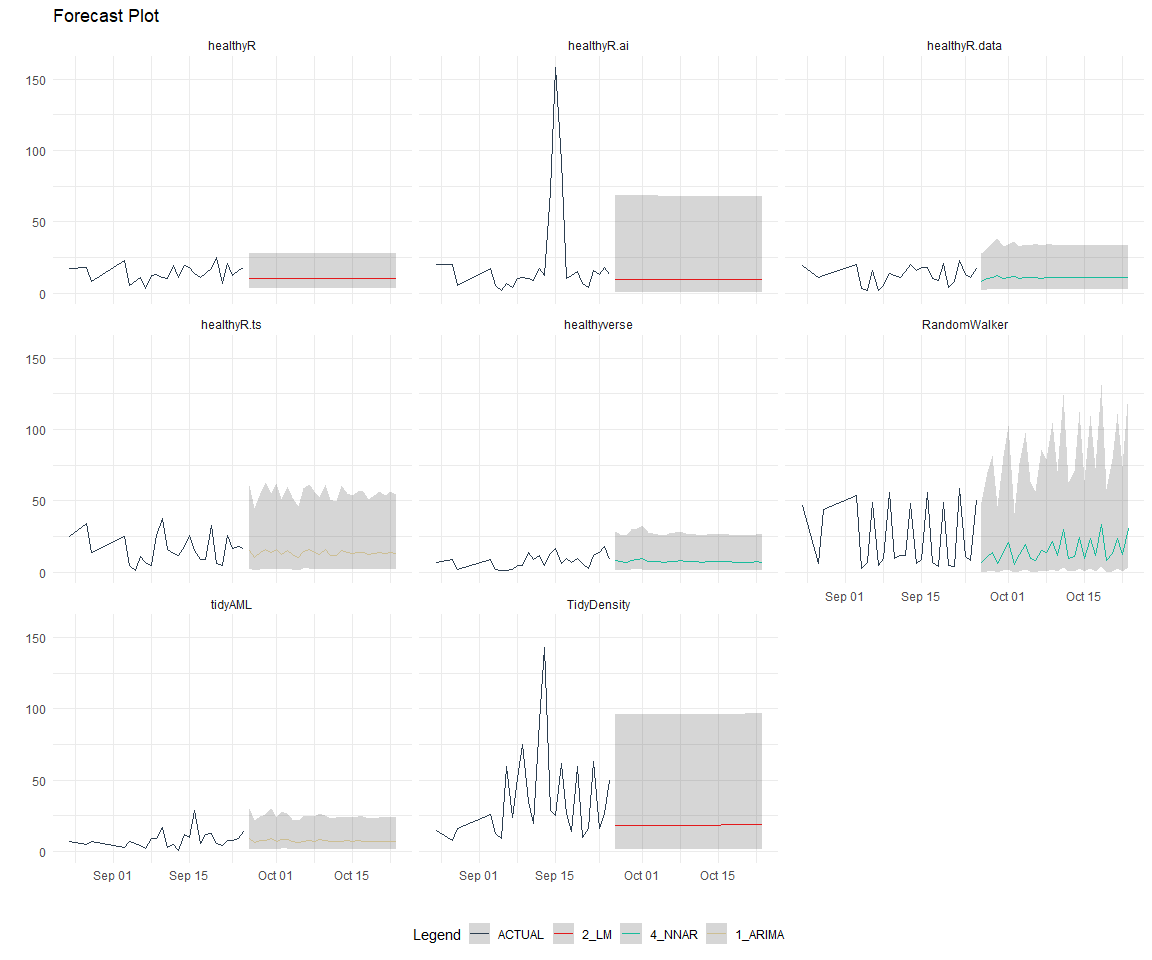
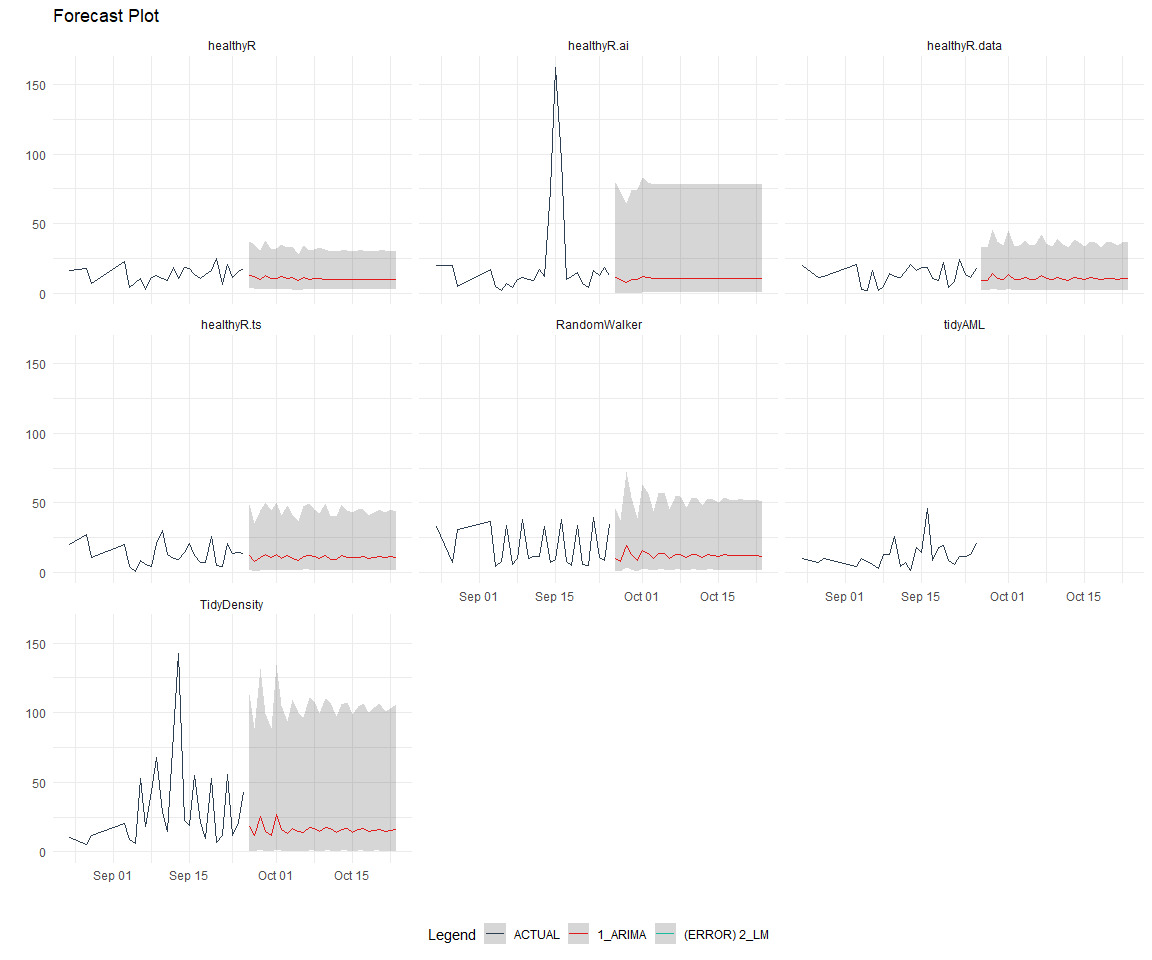
updates

diff --git a/README.md b/README.md
@@ -639,9 +639,19 @@ std_mean   <- std_params$mean
 std_sd     <- std_params$sd
 
 data_transformed_tbl <- data_liv_tbl %>%
+  group_by(package) %>%
   # get standardization
   mutate(value_trans = standard_vec(value_trans, silent = TRUE)$standard_scaled) %>%
-  select(-value)
+  tk_augment_fourier(
+    .date_var = date,
+    .periods  = c(7, 14, 30, 90, 180),
+    .K        = 2
+  ) %>%
+  tk_augment_timeseries_signature(
+    .date_var = date
+  ) %>%
+  ungroup() %>%
+  select(-c(value, -year.iso))
 ```
 
 Since this is panel data we can follow one of two different modeling
@@ -687,16 +697,16 @@ nested_data_tbl
 ```
 
     # A tibble: 8 × 4
-      package       .actual_data         .future_data      .splits          
-      <fct>         <list>               <list>            <list>           
-    1 healthyR.data <tibble [1,753 × 2]> <tibble [28 × 2]> <split [1725|28]>
-    2 healthyR      <tibble [1,744 × 2]> <tibble [28 × 2]> <split [1716|28]>
-    3 healthyR.ts   <tibble [1,690 × 2]> <tibble [28 × 2]> <split [1662|28]>
-    4 healthyverse  <tibble [1,661 × 2]> <tibble [28 × 2]> <split [1633|28]>
-    5 healthyR.ai   <tibble [1,486 × 2]> <tibble [28 × 2]> <split [1458|28]>
-    6 TidyDensity   <tibble [1,337 × 2]> <tibble [28 × 2]> <split [1309|28]>
-    7 tidyAML       <tibble [944 × 2]>   <tibble [28 × 2]> <split [916|28]> 
-    8 RandomWalker  <tibble [367 × 2]>   <tibble [28 × 2]> <split [339|28]> 
+      package       .actual_data          .future_data       .splits          
+      <fct>         <list>                <list>             <list>           
+    1 healthyR.data <tibble [1,753 × 50]> <tibble [28 × 50]> <split [1725|28]>
+    2 healthyR      <tibble [1,744 × 50]> <tibble [28 × 50]> <split [1716|28]>
+    3 healthyR.ts   <tibble [1,690 × 50]> <tibble [28 × 50]> <split [1662|28]>
+    4 healthyverse  <tibble [1,661 × 50]> <tibble [28 × 50]> <split [1633|28]>
+    5 healthyR.ai   <tibble [1,486 × 50]> <tibble [28 × 50]> <split [1458|28]>
+    6 TidyDensity   <tibble [1,337 × 50]> <tibble [28 × 50]> <split [1309|28]>
+    7 tidyAML       <tibble [944 × 50]>   <tibble [28 × 50]> <split [916|28]> 
+    8 RandomWalker  <tibble [367 × 50]>   <tibble [28 × 50]> <split [339|28]> 
 
 Now it is time to make some recipes and models using the modeltime
 workflow.
@@ -707,14 +717,16 @@ workflow.
 
 ``` r
 recipe_base <- recipe(
-  value_trans ~ date
+  value_trans ~ .
   , data = extract_nested_test_split(nested_data_tbl)
   )
 
 recipe_base
 
-recipe_date <- recipe_base %>%
-    step_mutate(date = as.numeric(date))
+recipe_date <- recipe(
+  value_trans ~ date
+  , data = extract_nested_test_split(nested_data_tbl)
+  )
 ```
 
 ### Models
@@ -728,7 +740,7 @@ model_spec_arima_no_boost <- arima_reg() %>%
   set_engine(engine = "auto_arima")
 
 wflw_auto_arima <- workflow() %>%
-  add_recipe(recipe = recipe_base) %>%
+  add_recipe(recipe = recipe_date) %>%
   add_model(model_spec_arima_no_boost)
 
 # NNETAR ------------------------------------------------------------------
@@ -758,7 +770,7 @@ model_spec_mars <- mars(mode = "regression") %>%
   set_engine("earth")
 
 wflw_mars <- workflow() %>%
-  add_recipe(recipe = recipe_base) %>%
+  add_recipe(recipe = recipe_date) %>%
   add_model(model_spec_mars)
 ```
 
@@ -795,38 +807,38 @@ nested_modeltime_tbl %>%
 
 | package | .model_id | .model_desc | .type | mae | mape | mase | smape | rmse | rsq |
 |:---|---:|:---|:---|---:|---:|---:|---:|---:|---:|
-| healthyR.data | 1 | ARIMA | Test | 0.6755950 | 172.73991 | 0.8723654 | 156.42763 | 0.7999823 | 0.0220462 |
-| healthyR.data | 2 | LM | Test | 0.7571503 | 252.52539 | 0.9776741 | 158.04385 | 0.8600928 | 0.0346441 |
-| healthyR.data | 3 | EARTH | Test | 4.8041034 | 2506.59131 | 6.2033223 | 177.33667 | 5.1958427 | 0.0346441 |
-| healthyR.data | 4 | NNAR | Test | 0.5930744 | 102.77309 | 0.7658103 | 184.21522 | 0.7662652 | 0.0038476 |
-| healthyR | 1 | ARIMA | Test | 0.5945975 | 242.94406 | 0.7962216 | 170.44435 | 0.6825873 | 0.3674558 |
-| healthyR | 2 | LM | Test | 0.5630165 | 146.97805 | 0.7539316 | 182.35467 | 0.6782720 | 0.1498603 |
-| healthyR | 3 | EARTH | Test | 5.9598093 | 3759.17139 | 7.9807411 | 184.37374 | 6.4597238 | 0.1498603 |
-| healthyR | 4 | NNAR | Test | 0.5795087 | 176.38106 | 0.7760162 | 182.52098 | 0.6861962 | 0.0000001 |
-| healthyR.ts | 1 | ARIMA | Test | 0.7796413 | 89.63044 | 0.7730430 | 133.03322 | 1.0054434 | 0.0388246 |
-| healthyR.ts | 2 | LM | Test | 0.7911201 | 120.07873 | 0.7844247 | 123.88697 | 1.0078446 | 0.0131688 |
-| healthyR.ts | 3 | EARTH | Test | 4.3327567 | 1091.42616 | 4.2960875 | 175.83862 | 4.6955181 | 0.0131688 |
-| healthyR.ts | 4 | NNAR | Test | 0.8620979 | 96.80601 | 0.8548018 | 180.21520 | 1.0624775 | 0.0034682 |
-| healthyverse | 1 | ARIMA | Test | 0.6885984 | 195.00243 | 0.9269246 | 105.88254 | 0.8269310 | 0.0026851 |
-| healthyverse | 2 | LM | Test | 0.7005244 | 213.44247 | 0.9429781 | 104.05122 | 0.8363359 | 0.1999877 |
-| healthyverse | 3 | EARTH | Test | 3.7570037 | 1476.43607 | 5.0573148 | 142.35547 | 4.2193011 | 0.1999877 |
-| healthyverse | 4 | NNAR | Test | 0.6633069 | 145.89305 | 0.8928796 | 111.64424 | 0.8219424 | 0.1373500 |
-| healthyR.ai | 1 | ARIMA | Test | 0.9009711 | 130.42217 | 0.9614453 | 150.80529 | 1.4264216 | 0.0000396 |
-| healthyR.ai | 2 | LM | Test | 0.8758379 | 125.60406 | 0.9346251 | 150.06653 | 1.4115781 | 0.0381807 |
-| healthyR.ai | 3 | EARTH | Test | 6.4948662 | 2729.42021 | 6.9308089 | 180.67829 | 7.1162639 | 0.0381807 |
-| healthyR.ai | 4 | NNAR | Test | 0.8870618 | 117.93231 | 0.9466024 | 151.41162 | 1.4162353 | 0.0000553 |
-| TidyDensity | 1 | ARIMA | Test | 1.0330075 | 141.72001 | 0.8397038 | 106.21632 | 1.3902628 | 0.1107042 |
-| TidyDensity | 2 | LM | Test | 1.0124940 | 176.51099 | 0.8230289 | 100.09921 | 1.3296156 | 0.1401080 |
-| TidyDensity | 3 | EARTH | Test | 3.2331395 | 428.84053 | 2.6281315 | 184.34473 | 3.6705538 | 0.1401080 |
-| TidyDensity | 4 | NNAR | Test | 1.1998827 | 114.06168 | 0.9753522 | 144.15790 | 1.5881814 | 0.0009771 |
-| tidyAML | 1 | ARIMA | Test | 0.6104390 | 134.39220 | 0.7128854 | 99.82115 | 0.7631571 | 0.0000277 |
-| tidyAML | 2 | LM | Test | 0.6125772 | 154.56814 | 0.7153825 | 95.02662 | 0.7648483 | 0.1170681 |
-| tidyAML | 3 | EARTH | Test | 4.5144941 | 1485.94931 | 5.2721353 | 148.48267 | 5.0300267 | 0.1170681 |
-| tidyAML | 4 | NNAR | Test | 0.6256617 | 167.52232 | 0.7306628 | 95.04736 | 0.7709157 | 0.0071908 |
-| RandomWalker | 1 | ARIMA | Test | 1.1237780 | 127.76747 | 0.6023077 | 176.87391 | 1.3886455 | 0.0029060 |
-| RandomWalker | 2 | LM | Test | 1.1239344 | 137.54304 | 0.6023915 | 168.35513 | 1.3466452 | 0.0046033 |
-| RandomWalker | 3 | EARTH | Test | 1.1119896 | 101.48414 | 0.5959895 | 189.90785 | 1.4075497 | NA |
-| RandomWalker | 4 | NNAR | Test | 1.1337432 | 191.80647 | 0.6076487 | 145.00074 | 1.3302204 | 0.0447388 |
+| healthyR.data | 1 | ARIMA | Test | 0.6999610 | 145.26752 | 0.8723654 | 159.6822 | 0.8288345 | 0.0220462 |
+| healthyR.data | 2 | LM | Test | 0.7799532 | 168.17057 | 0.9720601 | 148.5022 | 0.9248228 | 0.0246577 |
+| healthyR.data | 3 | EARTH | Test | 4.9773681 | 2098.81231 | 6.2033223 | 178.1313 | 5.3832359 | 0.0346441 |
+| healthyR.data | 4 | NNAR | Test | 0.7691020 | 145.57762 | 0.9585362 | 145.3063 | 0.9485662 | 0.0084288 |
+| healthyR | 1 | ARIMA | Test | 0.6442039 | 307.72341 | 0.7962216 | 161.6988 | 0.7395346 | 0.3674558 |
+| healthyR | 2 | LM | Test | 1.0295432 | 575.26631 | 1.2724923 | 155.6962 | 1.5770568 | 0.0560675 |
+| healthyR | 3 | EARTH | Test | 6.4570276 | 4826.28102 | 7.9807411 | 182.8181 | 6.9986491 | 0.1498603 |
+| healthyR | 4 | NNAR | Test | 0.7029926 | 419.96297 | 0.8688830 | 144.9437 | 0.9080066 | 0.0062834 |
+| healthyR.ts | 1 | ARIMA | Test | 0.7501131 | 95.57272 | 0.7726564 | 166.5089 | 0.9674815 | 0.0384278 |
+| healthyR.ts | 2 | LM | Test | 0.8242681 | 169.66610 | 0.8490400 | 147.3455 | 1.0183067 | 0.0372985 |
+| healthyR.ts | 3 | EARTH | Test | 4.1707430 | 1529.76573 | 4.2960875 | 170.0821 | 4.5199398 | 0.0131688 |
+| healthyR.ts | 4 | NNAR | Test | 0.8392468 | 139.55225 | 0.8644689 | 157.8047 | 1.0490016 | 0.0002655 |
+| healthyverse | 1 | ARIMA | Test | 0.8041991 | 122.40015 | 0.9269246 | 144.8099 | 0.9657546 | 0.0026851 |
+| healthyverse | 2 | LM | Test | 0.6743858 | 112.55391 | 0.7773010 | 114.5990 | 0.8834145 | 0.1599532 |
+| healthyverse | 3 | EARTH | Test | 4.3877223 | 1124.33867 | 5.0573148 | 157.9431 | 4.9276293 | 0.1999877 |
+| healthyverse | 4 | NNAR | Test | 0.6949455 | 152.14118 | 0.8009983 | 116.7035 | 0.8797958 | 0.2276215 |
+| healthyR.ai | 1 | ARIMA | Test | 0.9234134 | 132.31740 | 0.9614453 | 150.3052 | 1.4619524 | 0.0000396 |
+| healthyR.ai | 2 | LM | Test | 0.9472883 | 218.45376 | 0.9863035 | 136.3720 | 1.5072598 | 0.0095204 |
+| healthyR.ai | 3 | EARTH | Test | 6.6566468 | 2752.93954 | 6.9308089 | 180.5641 | 7.2935230 | 0.0381807 |
+| healthyR.ai | 4 | NNAR | Test | 0.9205484 | 231.70445 | 0.9584623 | 119.8198 | 1.4932531 | 0.0001349 |
+| TidyDensity | 1 | ARIMA | Test | 1.1400911 | 170.05383 | 0.8397038 | 161.6186 | 1.5343802 | 0.1107042 |
+| TidyDensity | 2 | LM | Test | 1.3147007 | 868.07173 | 0.9683079 | 157.9581 | 1.8026840 | 0.0659781 |
+| TidyDensity | 3 | EARTH | Test | 3.5682932 | 2212.13926 | 2.6281315 | 173.7986 | 4.0510507 | 0.1401080 |
+| TidyDensity | 4 | NNAR | Test | 1.1875954 | 395.87984 | 0.8746918 | 151.8507 | 1.5746697 | 0.0254345 |
+| tidyAML | 1 | ARIMA | Test | 0.6968202 | 110.54244 | 0.7128854 | 175.2986 | 0.8711490 | 0.0000277 |
+| tidyAML | 2 | LM | Test | 0.7185952 | 205.43109 | 0.7351624 | 144.6743 | 0.8470529 | 0.2015469 |
+| tidyAML | 3 | EARTH | Test | 5.1533257 | 1807.66998 | 5.2721353 | 165.8170 | 5.7418096 | 0.1170681 |
+| tidyAML | 4 | NNAR | Test | 0.7671586 | 233.64575 | 0.7848454 | 138.5317 | 0.9108973 | 0.0628923 |
+| RandomWalker | 1 | ARIMA | Test | 0.8301142 | 162.63675 | 0.6015262 | 176.7232 | 1.0215838 | 0.0027246 |
+| RandomWalker | 2 | LM | Test | 1.8084709 | 858.20967 | 1.3104734 | 157.9686 | 2.2397086 | 0.0045731 |
+| RandomWalker | 3 | EARTH | Test | 0.8224735 | 114.45883 | 0.5959895 | 181.8640 | 1.0410819 | NA |
+| RandomWalker | 4 | NNAR | Test | 0.9219400 | 118.23159 | 0.6680660 | 147.9075 | 1.2274453 | 0.0029857 |
 
 ### Plot Models
 
@@ -835,6 +847,7 @@ nested_modeltime_tbl %>%
   extract_nested_test_forecast() %>%
   group_by(package) %>%
   filter_by_time(.date_var = .index, .start_date = max(.index) - 60) %>%
+  ungroup() %>%
   plot_modeltime_forecast(
     .interactive = FALSE,
     .conf_interval_show  = FALSE,
@@ -867,14 +880,14 @@ best_nested_modeltime_tbl %>%
     # A tibble: 8 × 10
       package      .model_id .model_desc .type   mae  mape  mase smape  rmse     rsq
       <fct>            <int> <chr>       <chr> <dbl> <dbl> <dbl> <dbl> <dbl>   <dbl>
-    1 healthyR.da…         4 NNAR        Test  0.593 103.  0.766 184.  0.766 3.85e-3
-    2 healthyR             2 LM          Test  0.563 147.  0.754 182.  0.678 1.50e-1
-    3 healthyR.ts          1 ARIMA       Test  0.780  89.6 0.773 133.  1.01  3.88e-2
-    4 healthyverse         4 NNAR        Test  0.663 146.  0.893 112.  0.822 1.37e-1
-    5 healthyR.ai          2 LM          Test  0.876 126.  0.935 150.  1.41  3.82e-2
-    6 TidyDensity          2 LM          Test  1.01  177.  0.823 100.  1.33  1.40e-1
-    7 tidyAML              1 ARIMA       Test  0.610 134.  0.713  99.8 0.763 2.77e-5
-    8 RandomWalker         4 NNAR        Test  1.13  192.  0.608 145.  1.33  4.47e-2
+    1 healthyR.da…         1 ARIMA       Test  0.700 145.  0.872  160. 0.829 2.20e-2
+    2 healthyR             1 ARIMA       Test  0.644 308.  0.796  162. 0.740 3.67e-1
+    3 healthyR.ts          1 ARIMA       Test  0.750  95.6 0.773  167. 0.967 3.84e-2
+    4 healthyverse         4 NNAR        Test  0.695 152.  0.801  117. 0.880 2.28e-1
+    5 healthyR.ai          1 ARIMA       Test  0.923 132.  0.961  150. 1.46  3.96e-5
+    6 TidyDensity          1 ARIMA       Test  1.14  170.  0.840  162. 1.53  1.11e-1
+    7 tidyAML              2 LM          Test  0.719 205.  0.735  145. 0.847 2.02e-1
+    8 RandomWalker         1 ARIMA       Test  0.830 163.  0.602  177. 1.02  2.72e-3
 
 ``` r
 best_nested_modeltime_tbl %>%
@@ -882,6 +895,7 @@ best_nested_modeltime_tbl %>%
   #filter(!is.na(.model_id)) %>%
   group_by(package) %>%
   filter_by_time(.date_var = .index, .start_date = max(.index) - 60) %>%
+  ungroup() %>%
   plot_modeltime_forecast(
     .interactive = FALSE,
     .conf_interval_alpha = 0.2,
@@ -927,6 +941,7 @@ nested_modeltime_refit_tbl
 ``` r
 nested_modeltime_refit_tbl %>%
   extract_nested_future_forecast() %>%
+  group_by(package) %>%
   mutate(across(.value:.conf_hi, .fns = ~ standard_inv_vec(
     x    = .,
     mean = std_mean,
@@ -938,8 +953,8 @@ nested_modeltime_refit_tbl %>%
     limit_upper = limit_upper,
     offset      = offset
   )$rescaled_v)) %>%
-  group_by(package) %>%
   filter_by_time(.date_var = .index, .start_date = max(.index) - 60) %>%
+  ungroup() %>%
   plot_modeltime_forecast(
     .interactive = FALSE,
     .conf_interval_alpha = 0.2,
